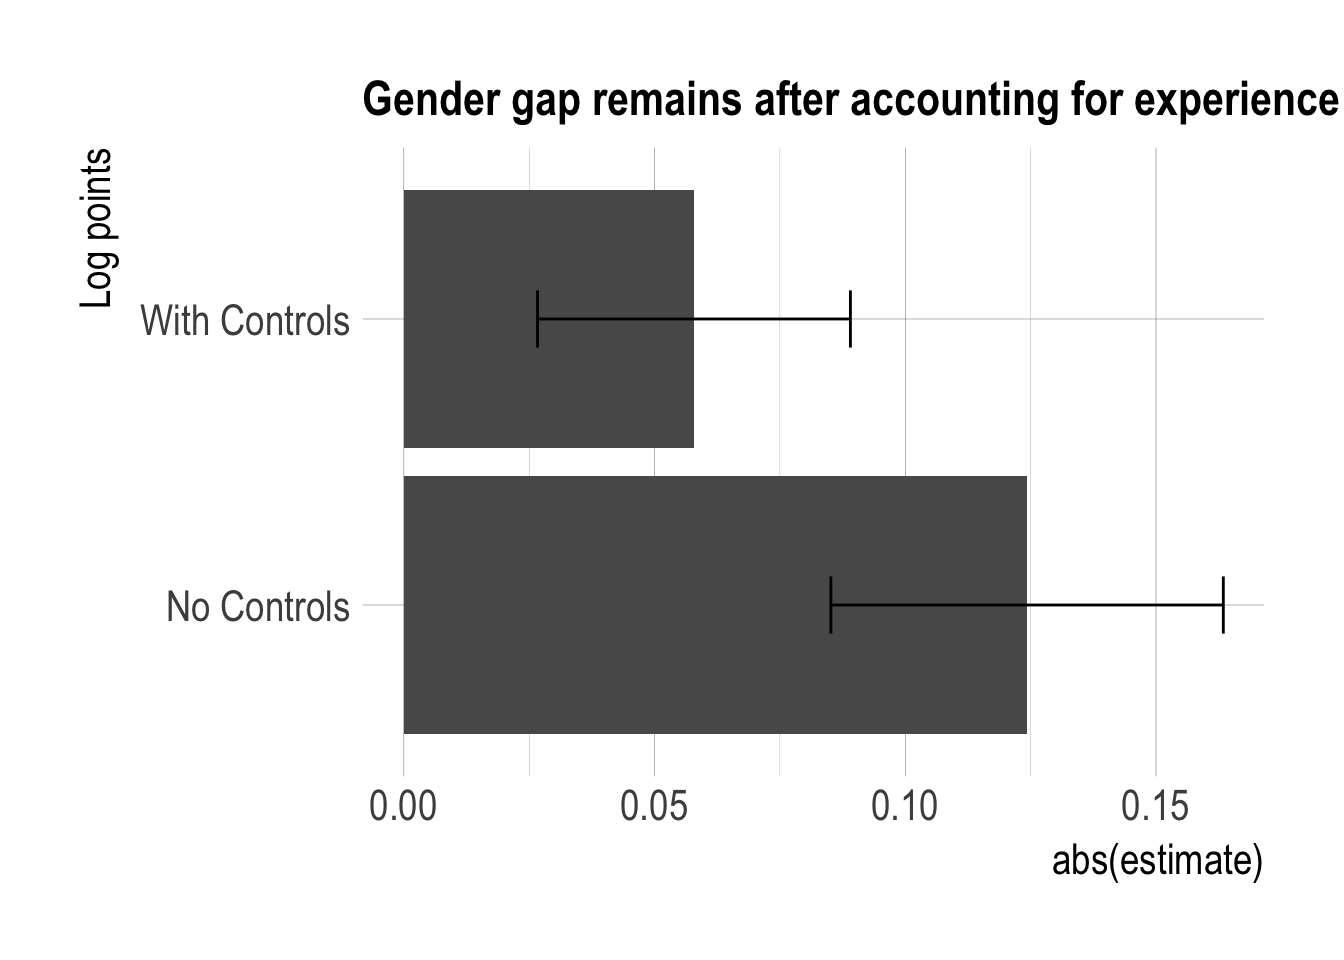
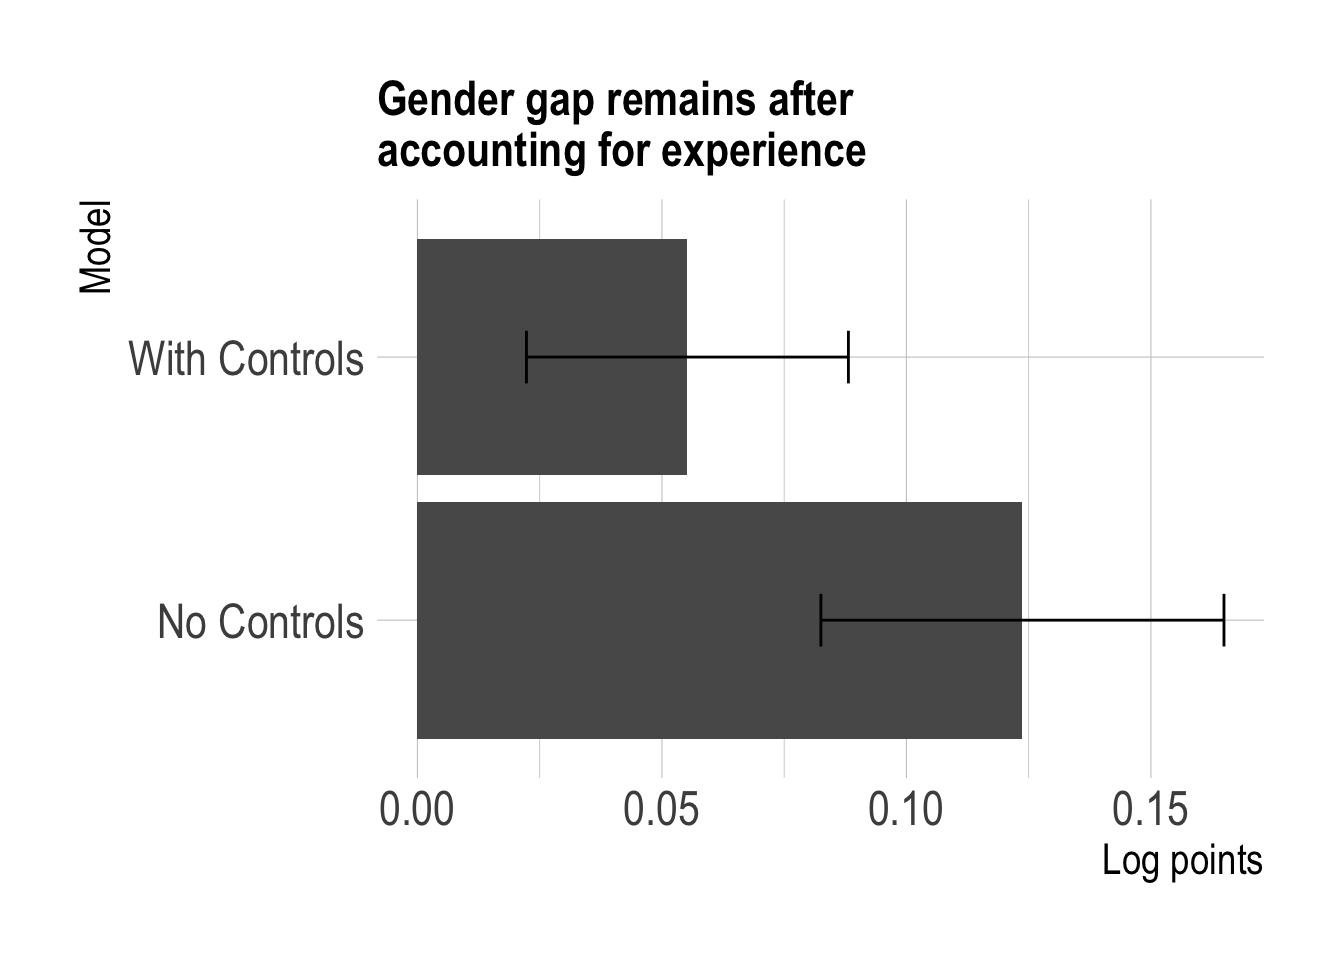
some code tidying

diff --git a/content/post/2018-02-15-scraping-nih-pis-with-rvest.html b/content/post/2018-02-15-scraping-nih-pis-with-rvest.html
@@ -65,8 +65,9 @@ output:
 <p>At the bottom of the screenshot, SelectorGadget has determined the right CSS selector needed to extract the names. Now we can move to doing everything in R.</p>
 <pre class="r"><code>knitr::opts_chunk$set(warning = F, message = F)
 
-library(tidyverse)
-library(magrittr)
+library(tidyverse)</code></pre>
+<pre><code>## Warning: package &#39;dplyr&#39; was built under R version 3.5.1</code></pre>
+<pre class="r"><code>library(magrittr)
 library(rvest)
 
 html = read_html(&quot;https://irp.nih.gov/our-research/principal-investigators/name&quot;)
@@ -87,12 +88,14 @@ pi_names[1:5]</code></pre>
 
 # separate name into first, middle, last
 df %&lt;&gt;%
-  tidyr::extract(fullname, into = c(&quot;last_name&quot;, &quot;first_name&quot;), 
-                 regex = &quot;(.+?)\\,\\s(.+?)\\,&quot;, remove = FALSE)  %&gt;% 
+  tidyr::extract(fullname, 
+                 into = c(&quot;last_name&quot;, &quot;first_name&quot;), 
+                 regex = &quot;(.+?)\\,\\s(.+?)\\,&quot;, 
+                 remove = FALSE)  %&gt;% 
   separate(first_name, into = c(&quot;first_name&quot;, &quot;middle_name&quot;), sep = &quot;\\s&quot;) 
 
 df</code></pre>
-<pre><code>## # A tibble: 1,039 x 4
+<pre><code>## # A tibble: 1,034 x 4
 ##    fullname                           last_name first_name middle_name
 ##    &lt;chr&gt;                              &lt;chr&gt;     &lt;chr&gt;      &lt;chr&gt;      
 ##  1 Abnet, Christian C., Ph.D., M.P.H. Abnet     Christian  C.         
@@ -105,7 +108,7 @@ df</code></pre>
 ##  8 Aladjem, Mirit I., Ph.D.           Aladjem   Mirit      I.         
 ##  9 Albanes, Demetrius, M.D.           Albanes   Demetrius  &lt;NA&gt;       
 ## 10 Albert, Paul S., Ph.D.             Albert    Paul       S.         
-## # ... with 1,029 more rows</code></pre>
+## # ... with 1,024 more rows</code></pre>
 <div id="clean-names" class="section level2">
 <h2><span class="header-section-number">2.1</span> Clean names</h2>
 <p>Below is some code for standardizing the names. I do three things:</p>
@@ -129,12 +132,13 @@ df %&lt;&gt;%
   mutate(first_name = 
            chartr(paste(names(accent_dictionary), collapse = &#39;&#39;),
                   paste(accent_dictionary, collapse = &#39;&#39;), first_name), 
-  last_name = chartr(paste(names(accent_dictionary), collapse = &#39;&#39;),
+         last_name = 
+           chartr(paste(names(accent_dictionary), collapse = &#39;&#39;),
                      paste(accent_dictionary, collapse = &#39;&#39;), last_name))
 
 # Replace non-letters 
 df %&lt;&gt;% mutate(first_name = str_replace_all(first_name, &quot;[^a-z]&quot;, &quot;&quot;), 
-              last_name = str_replace_all(last_name, &quot;[^a-z]&quot;, &quot;&quot;)) </code></pre>
+               last_name = str_replace_all(last_name, &quot;[^a-z]&quot;, &quot;&quot;)) </code></pre>
 </div>
 </div>
 <div id="opm-data" class="section level1">
@@ -151,11 +155,16 @@ your_root = &quot;/Volumes/research_data&quot;
 path = file.path(your_root, &quot;opm-federal-employment-data/data&quot;, 
        &quot;2016-12-to-2017-03/non-dod/status&quot;, &quot;Non-DoD FOIA 2017-04762 201703.txt&quot;)
 
-opm2017 = read_delim(path, col_types = cols(), delim = &quot;;&quot;, 
-                     na = c(&quot;&quot;, &quot;NA&quot;, &quot;*&quot;, &quot;.&quot;, &quot;############&quot;), n_max = Inf) 
+opm2017 = read_delim(path, 
+                     col_types = cols(),
+                     delim = &quot;;&quot;, 
+                     na = c(&quot;&quot;, &quot;NA&quot;, &quot;*&quot;, &quot;.&quot;, &quot;############&quot;), 
+                     n_max = Inf) 
 
 # install.packages(&quot;janitor&quot;)
-opm2017 %&lt;&gt;% janitor::clean_names() # clean column names
+opm2017 %&lt;&gt;% 
+  janitor::clean_names() %&gt;% # clean column names
+  rename(subagency = sub_agency)
 
 opm2017</code></pre>
 <pre><code>## # A tibble: 1,355,327 x 19
@@ -184,7 +193,8 @@ opm2017 %&lt;&gt;% filter(str_detect(subagency, &quot;HE38&quot;))
 opm2017 %&lt;&gt;%
   mutate_at(vars(last_name, first_name), str_to_lower) %&gt;%  # set names to lower case
   mutate(first_name = str_replace_all(first_name, &quot;[^a-z]&quot;, &quot;&quot;),
-       last_name = str_replace_all(last_name, &quot;[^a-z]&quot;, &quot;&quot;)) %&gt;% # replace non-letters with space
+         last_name = str_replace_all(last_name, &quot;[^a-z]&quot;, &quot;&quot;)) %&gt;% 
+  # replace non-letters with space
   mutate(first_name =
            chartr(paste(names(accent_dictionary), collapse = &#39;&#39;),
                   paste(accent_dictionary, collapse = &#39;&#39;), first_name),
@@ -195,26 +205,34 @@ opm2017 %&lt;&gt;%
 <h2><span class="header-section-number">3.1</span> Linking PI names to OPM payroll data</h2>
 <p>I’m going to implement a simple matching rule: unique matches on first and last names.</p>
 <pre class="r"><code># Give IDs to track duplicates
-df %&lt;&gt;% mutate(id = row_number()) %&gt;% select(id, everything())
-opm2017 %&lt;&gt;% mutate(opm_id = row_number()) %&gt;% select(opm_id, everything())
+df %&lt;&gt;% 
+  mutate(id = row_number()) %&gt;% 
+  select(id, everything())
 
-pi_opm = df %&gt;% select(id, last_name, first_name) %&gt;% 
+opm2017 %&lt;&gt;% 
+  mutate(opm_id = row_number()) %&gt;% 
+  select(opm_id, everything())
+
+pi_opm = df %&gt;% 
+  select(id, last_name, first_name) %&gt;% 
   inner_join(opm2017, by = c(&quot;last_name&quot;, &quot;first_name&quot;))
 
 pi_opm %&lt;&gt;% 
   group_by(id) %&gt;% 
-  mutate(x = max(row_number()) &gt; 1) %&gt;% # duplicate from dataframe of scraped names
+  mutate(x = n() &gt; 1) %&gt;% # duplicate from dataframe of scraped names
   group_by(opm_id) %&gt;% 
-  mutate(y = max(row_number()) &gt; 1) %&gt;% # duplicate from OPM data
+  mutate(y = n() &gt; 1) %&gt;% # duplicate from OPM data
   ungroup() %&gt;% 
   filter(!x, !y)</code></pre>
-<p>We had 1039 names and managed to match 899 of them. We could maybe do better but for such a simple “algorithm” I’m happy enough.</p>
+<p>We had 1034 names and managed to match 890 of them. We could maybe do better but for such a simple “algorithm” I’m happy enough.</p>
 </div>
 </div>
 <div id="what-can-we-learn-about-the-intramural-program" class="section level1">
 <h1><span class="header-section-number">4</span> What can we learn about the intramural program?</h1>
 <p>It’s a good idea to take a peek at the data with the wonderful <a href="https://github.com/ropenscilabs/skimr"><code>skimr</code></a> package, even if we will plot some of the variables again later, but this post is getting long so I won’t print the results of that. Age and years of service are reported in 5-year bins, so to I’ve converted them into numeric values based on the lower end of the bin.</p>
-<pre class="r"><code>pi_opm %&lt;&gt;% mutate(age = parse_number(age_range), yrs_since_degree = parse_number(ysd_range))
+<pre class="r"><code>pi_opm %&lt;&gt;% 
+  mutate(age = parse_number(age_range), 
+         yrs_since_degree = parse_number(ysd_range))
 
 # skimr::skim(pi_opm)</code></pre>
 <div id="aging-of-the-scientifc-workforce" class="section level2">
@@ -225,9 +243,12 @@ theme_set(theme_ipsum(base_size = 18, axis_title_size = 16))
 theme_update(axis.text = element_text(size = 16))
 
 pi_opm %&gt;% 
-  ggplot(aes(age)) + geom_bar() +
+  ggplot(aes(age)) + 
+  geom_bar() +
   theme_ipsum(grid = &quot;Y&quot;, base_size = 18, axis_title_size = 16) + 
-  labs(y = &quot;Count&quot;, x = &quot;Age (5-year bin)&quot;, title = &quot;Intramural investigators seem old&quot;)</code></pre>
+  labs(y = &quot;Count&quot;, 
+       x = &quot;Age (5-year bin)&quot;, 
+       title = &quot;Intramural investigators seem old&quot;)</code></pre>
 <p><img src="/post/2018-02-15-scraping-nih-pis-with-rvest_files/figure-html/unnamed-chunk-8-1.png" width="672" /></p>
 <p>The distribution of the intramural PIs is older than I’d have guessed. Strikingly, PIs older than 65 make up the largest share of the population. It’d be interesting to see how this distribution has changed over time. While this may be related to the general aging phenomenon, research funding or hiring policies could also have an effect.</p>
 </div>
@@ -240,7 +261,8 @@ pi_opm %&gt;%
 <p>Not a bad living, but there also seems to be a fairly wide range. Some of this might be down to experience, which we can check using years since degree as a proxy.</p>
 <pre class="r"><code>pi_opm %&gt;% 
   ggplot(aes(yrs_since_degree, adjusted_basic_pay)) + 
-  geom_boxplot(aes(group = yrs_since_degree), alpha = 1/2, outlier.shape = NA, size = 1.1) + 
+  geom_boxplot(aes(group = yrs_since_degree), 
+               alpha = 1/2, outlier.shape = NA, size = 1.1) + 
   geom_jitter(alpha = 1/3)</code></pre>
 <p><img src="/post/2018-02-15-scraping-nih-pis-with-rvest_files/figure-html/unnamed-chunk-10-1.png" width="672" /></p>
 <p>Salary seems to generally increase with years since degree, but there is a fair amount of spread within each <code>yrs_since_degree</code> bin. The median salary also starts to stagnate from the 30-34 bin onwards.</p>
@@ -249,33 +271,34 @@ pi_opm %&gt;%
 <h2><span class="header-section-number">4.3</span> Gender representation in the intramural program</h2>
 <p>The actual demographics of the intramural program are available <a href="https://oir.nih.gov/sourcebook/personnel/irp-demographics/intramural-research-program-personnel-demographics-end-fy17">online</a>. The number of female tenured researchers (Senior Investigators) is low at 23%, and increases somewhat as you go to more junior appointments.<a href="#fn1" class="footnoteRef" id="fnref1"><sup>1</sup></a></p>
 <p>Since gender isn’t available in the OPM data, I’ll use <a href="http://abel.lis.illinois.edu/cgi-bin/genni/search.cgi">Genni</a> to predict gender based on first name and birth year.</p>
-<pre class="r"><code>genni = read_tsv(here::here(&quot;../Genni/ssnnamesdata.out&quot;), col_types = cols_only(name = &quot;c&quot;, `2008` = &quot;c&quot;))
+<pre class="r"><code>genni = read_tsv(here::here(&quot;../Genni/ssnnamesdata.out&quot;), 
+                 col_types = cols_only(name = &quot;c&quot;, `2008` = &quot;c&quot;))
 
 genni %&lt;&gt;% 
   rename(probs = `2008`) %&gt;% 
-  tidyr::separate(probs, into = c(&quot;a&quot;, &quot;b&quot;, &quot;pfem&quot;, &quot;d&quot;), sep = &quot;\\|&quot;, convert = TRUE) %&gt;% 
+  tidyr::separate(probs, 
+                  into = c(&quot;a&quot;, &quot;b&quot;, &quot;pfem&quot;, &quot;d&quot;), 
+                  sep = &quot;\\|&quot;, 
+                  convert = TRUE) %&gt;% 
   select(name, pfem) %&gt;% 
   mutate(name = str_to_lower(name))
 
-pi_opm %&lt;&gt;% 
-  left_join(genni, by = c(&quot;first_name&quot; = &quot;name&quot;)) 
+pi_opm %&lt;&gt;% left_join(genni, by = c(&quot;first_name&quot; = &quot;name&quot;)) 
 
-nafem = pi_opm %&gt;% filter(is.na(pfem)) %&gt;% nrow() # number names without prediction
-
-# pi_opm %&gt;% 
-#   ggplot(aes(pfem)) + geom_histogram(na.rm =  FALSE) + 
-#   labs(title = &quot;Probability of female based on first name&quot;)</code></pre>
+nafem = pi_opm %&gt;% filter(is.na(pfem)) %&gt;% nrow() # number names without prediction</code></pre>
 <p>There are 90 persons whose first names do not appear in Genni. I’ll impose an arbitrary threshold that we have to be at least 75% sure to classify someone as female or male.</p>
 <pre class="r"><code>pi_opm_fem = pi_opm %&gt;% 
   filter(pfem &gt;= 0.75 | pfem &lt;= 0.25) %&gt;% 
   mutate(female = pfem &gt;= 0.75)
 
-pi_opm_fem %&gt;% count(female) %&gt;% mutate(percent = n/sum(n) * 100) </code></pre>
+pi_opm_fem %&gt;% 
+  count(female) %&gt;% 
+  mutate(percent = n/sum(n) * 100) </code></pre>
 <pre><code>## # A tibble: 2 x 3
 ##   female     n percent
 ##   &lt;lgl&gt;  &lt;int&gt;   &lt;dbl&gt;
-## 1 F        587    74.9
-## 2 T        197    25.1</code></pre>
+## 1 FALSE    580    74.8
+## 2 TRUE     195    25.2</code></pre>
 <div id="gender-salary-differences" class="section level3">
 <h3><span class="header-section-number">4.3.1</span> Gender salary differences</h3>
 <pre class="r"><code>pi_opm_fem %&gt;% 
@@ -284,7 +307,8 @@ pi_opm_fem %&gt;% count(female) %&gt;% mutate(percent = n/sum(n) * 100) </code><
   labs(title = &quot;Men tend to earn more&quot;)</code></pre>
 <p><img src="/post/2018-02-15-scraping-nih-pis-with-rvest_files/figure-html/unnamed-chunk-13-1.png" width="672" /></p>
 <p>A direct comparison shows that male PIs tend to earn more than female PIs. This isn’t entirely surprising since we know from the IRP website that <a href="https://oir.nih.gov/sourcebook/personnel/irp-demographics/intramural-research-program-personnel-demographics-end-fy17">there are many more men than women in senior appointments</a>, so what happens if we try to “control for” seniority? I’ll run a simple linear regression with controls for the <code>years since degree</code> bins.</p>
-<pre class="r"><code>mod = lm(log(adjusted_basic_pay) ~ female + factor(yrs_since_degree), data = pi_opm_fem) 
+<pre class="r"><code>mod = lm(log(adjusted_basic_pay) ~ female + factor(yrs_since_degree), 
+         data = pi_opm_fem) 
 
 modgap = mod %&gt;% 
   broom::tidy(conf.int = TRUE) %&gt;% 
@@ -301,8 +325,9 @@ ggplot(gap, aes(x, abs(estimate))) +
   geom_col() + 
   geom_errorbar(aes(ymin = abs(conf.low), ymax = abs(conf.high)), width = 0.2) + 
   coord_flip() + 
-  labs(title = &quot;Gender gap remains after accounting for experience&quot;, 
-       x = &quot;Log points&quot;)</code></pre>
+  labs(title = str_wrap(&quot;Gender gap remains after accounting for experience&quot;, 30), 
+       x = &quot;Model&quot;,
+       y = &quot;Log points&quot;)</code></pre>
 <p><img src="/post/2018-02-15-scraping-nih-pis-with-rvest_files/figure-html/unnamed-chunk-14-1.png" width="672" /></p>
 <p>The gap has shrunk by more than half but still remains at about 5-6 percentage points.</p>
 <p>Two big caveats here:</p>
